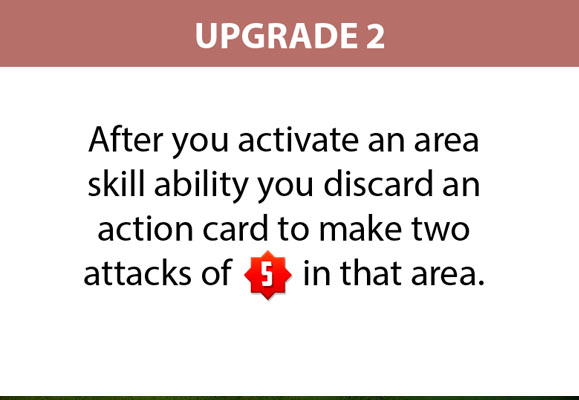
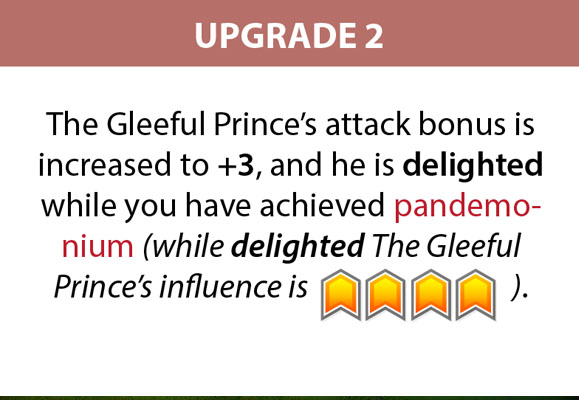
DEVILS: Move delighted to upgrade

Changed region(s): [[0.0622, 0.27, 0.9637, 0.81], [0.342, 0.06, 0.6839, 0.12]]

diff --git a/server/classes/factions/Devils.js b/server/classes/factions/Devils.js
@@ -11,7 +11,7 @@ class Devils extends Faction {
         this.triggers = {
             "onCleanUp" : "resetChaos",
             "onFactionKillsUnit" : "checkKillChaos",
-            "onAfterSkill" : "shouldTormentAfterSkill",
+            //"onAfterSkill" : "shouldTormentAfterSkill",
             "onAfterTokenReveal" : "handlePrincePlacement",
         };
 
@@ -22,6 +22,7 @@ class Devils extends Faction {
         this.data.chaos = 0; // tracks how may kills we have that aren't from attacking with our units
         this.data.chaosLevel = '';
         this.data.cardLimit = 2;
+        this.data.princeCombatBonus = 2;
 
         // how much chaos we need to achieve each chaos level
         this.data.chaosLevels = {
@@ -62,6 +63,7 @@ class Devils extends Faction {
                 killed : false,
                 hidden: true,
                 onDeploy: 'deployCheckIfDelighted',
+                onPlace: 'deployCheckIfDelighted',
                 onBeforeBattle: 'increaseCombatAttack',
                 dontUnflipAutomatically: true,
                 selected : false,
@@ -169,7 +171,8 @@ class Devils extends Faction {
     }
 
     increaseCombatAttack( combat ){
-        combat.data.attackBonus += 2;
+        let upgradeBonus = this.data.upgrade >= 2 ? 1 : 0;
+        combat.data.attackBonus += this.data.princeCombatBonus + upgradeBonus;
     }
 
     /**
@@ -178,7 +181,7 @@ class Devils extends Faction {
      * @param event
      */
     deployCheckIfDelighted( event ) {
-        if(event.unit.flipped || !this.hasChaosLevel("pandemonium")) return;
+        if(event.unit.flipped || !this.hasChaosLevel("pandemonium") || !this.data.upgrade) return;
         this.becomesDelighted( event.unit );
     }
 
